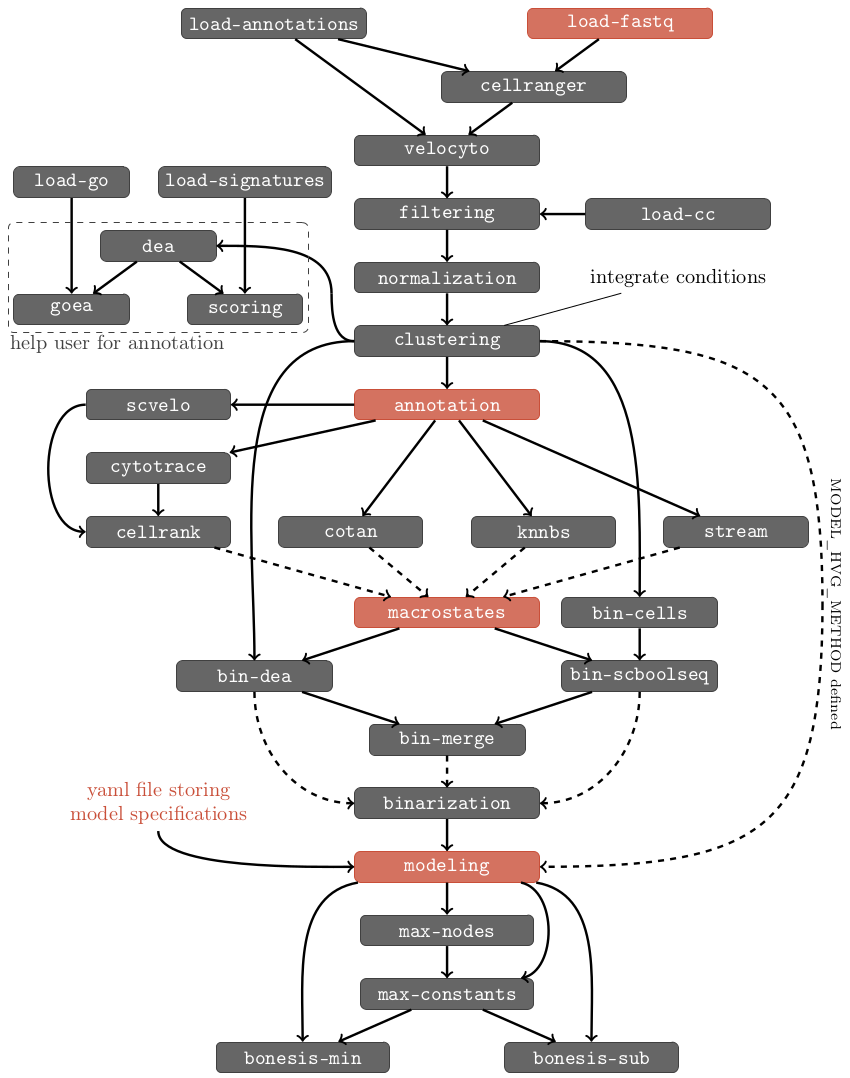
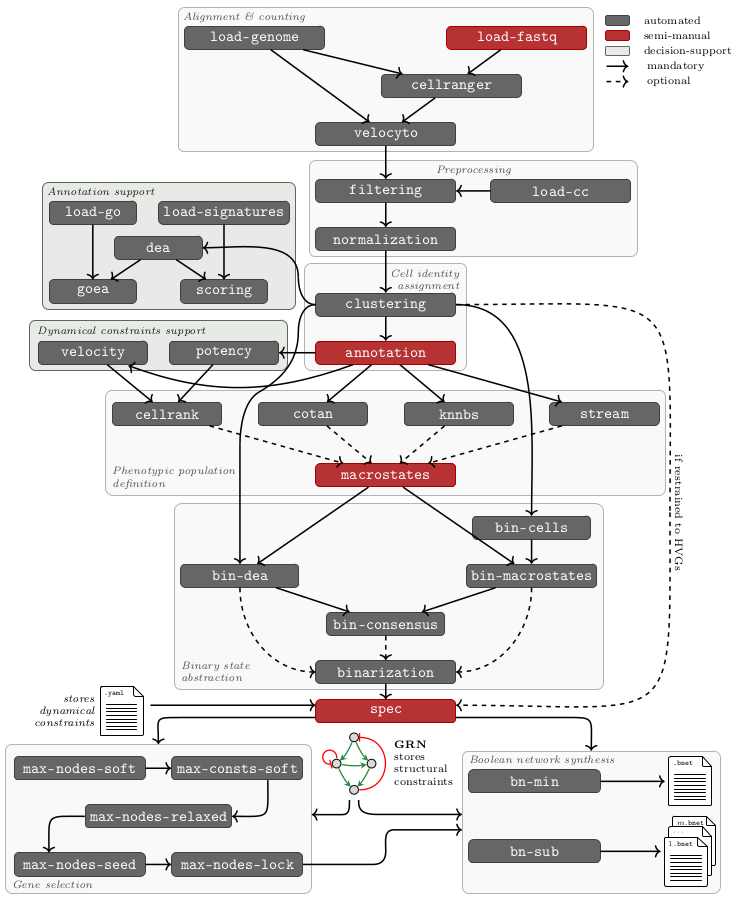
update documentation

diff --git a/README.md b/README.md
@@ -73,7 +73,7 @@ Download and configure Anaconda:
 
 * [https://www.anaconda.com/download/](https://www.anaconda.com/download/)
 
-Download Cell Ranger and add it to your `PATH`:
+Download Cell Ranger and add it to your `PATH` environment variable:
 
 * [https://www.10xgenomics.com/support/software/cell-ranger/downloads](https://www.10xgenomics.com/support/software/cell-ranger/downloads)
 
@@ -110,10 +110,10 @@ Display the pipeline summary:
 make help
 ```
 
-Run a pipeline command:
+Run a pipeline module:
 
 ```sh
-make <command>
+make <module>
 ```
 
 Default parameters are defined in `default_params.mk`.
@@ -129,22 +129,22 @@ Display effective configuration:
 make config
 ```
 
-Preview commands required to build a target without executing them:
+Preview modules required to build a target without executing them:
 
 ```sh
-make dry-run TARGET=<command>
+make dry-run TARGET=<module>
 ```
 
 Validate Make-level dependencies and configuration for a target:
 
 ```sh
-make validate TARGET=<command>
+make validate TARGET=<module>
 ```
 
 Disable persistent logging:
 
 ```sh
-make LOGGING=false <command>
+make LOGGING=false <module>
 ```
 
 ---
